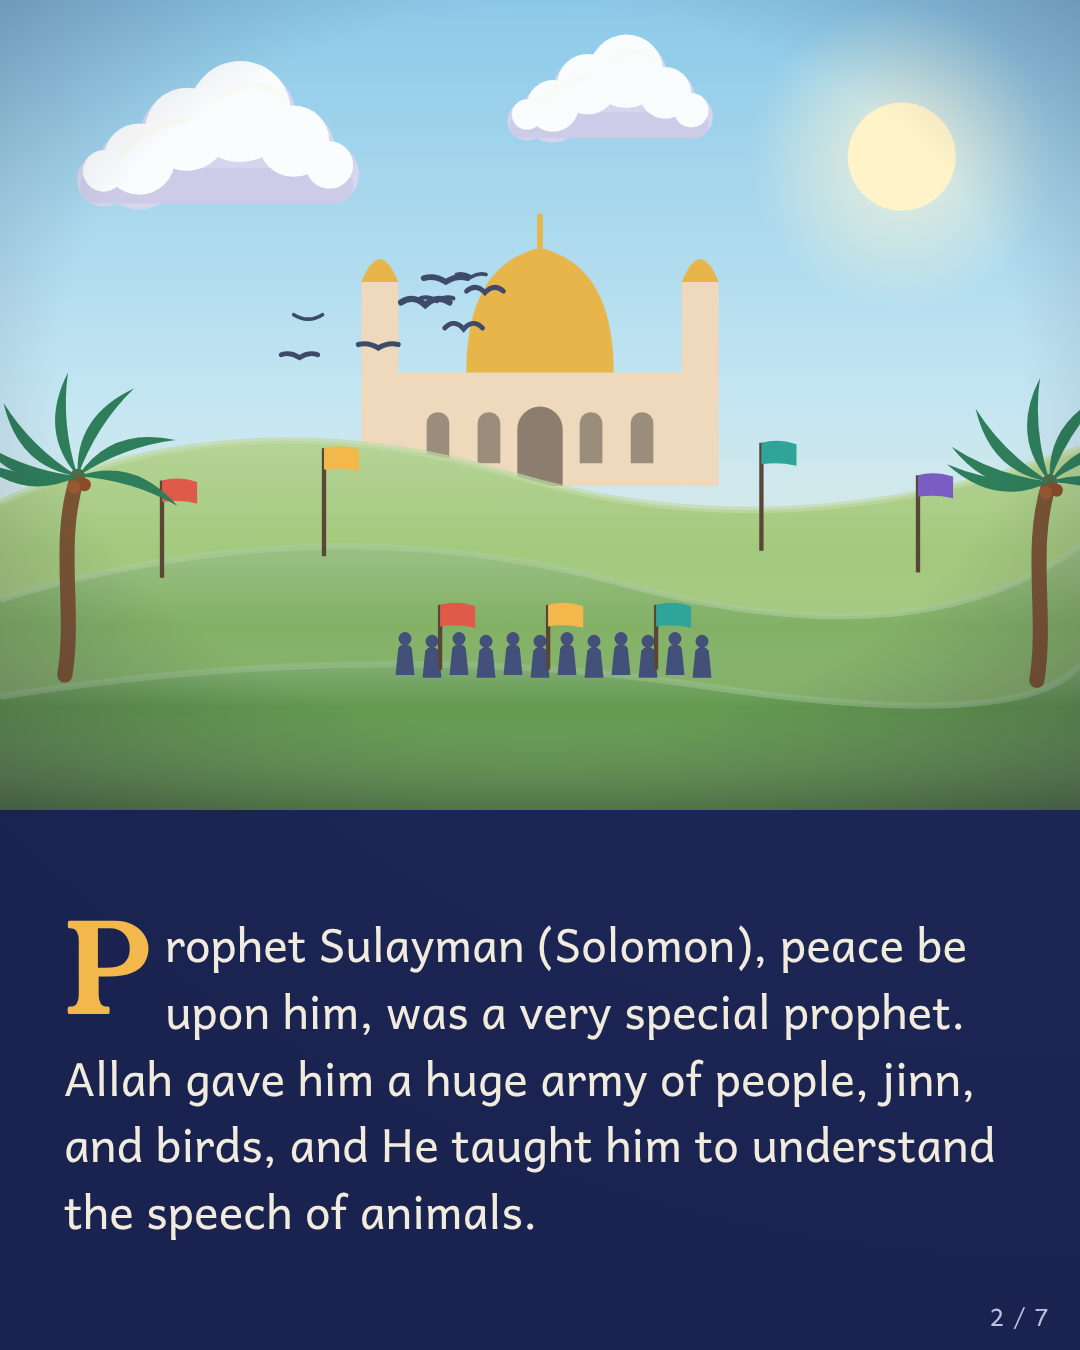
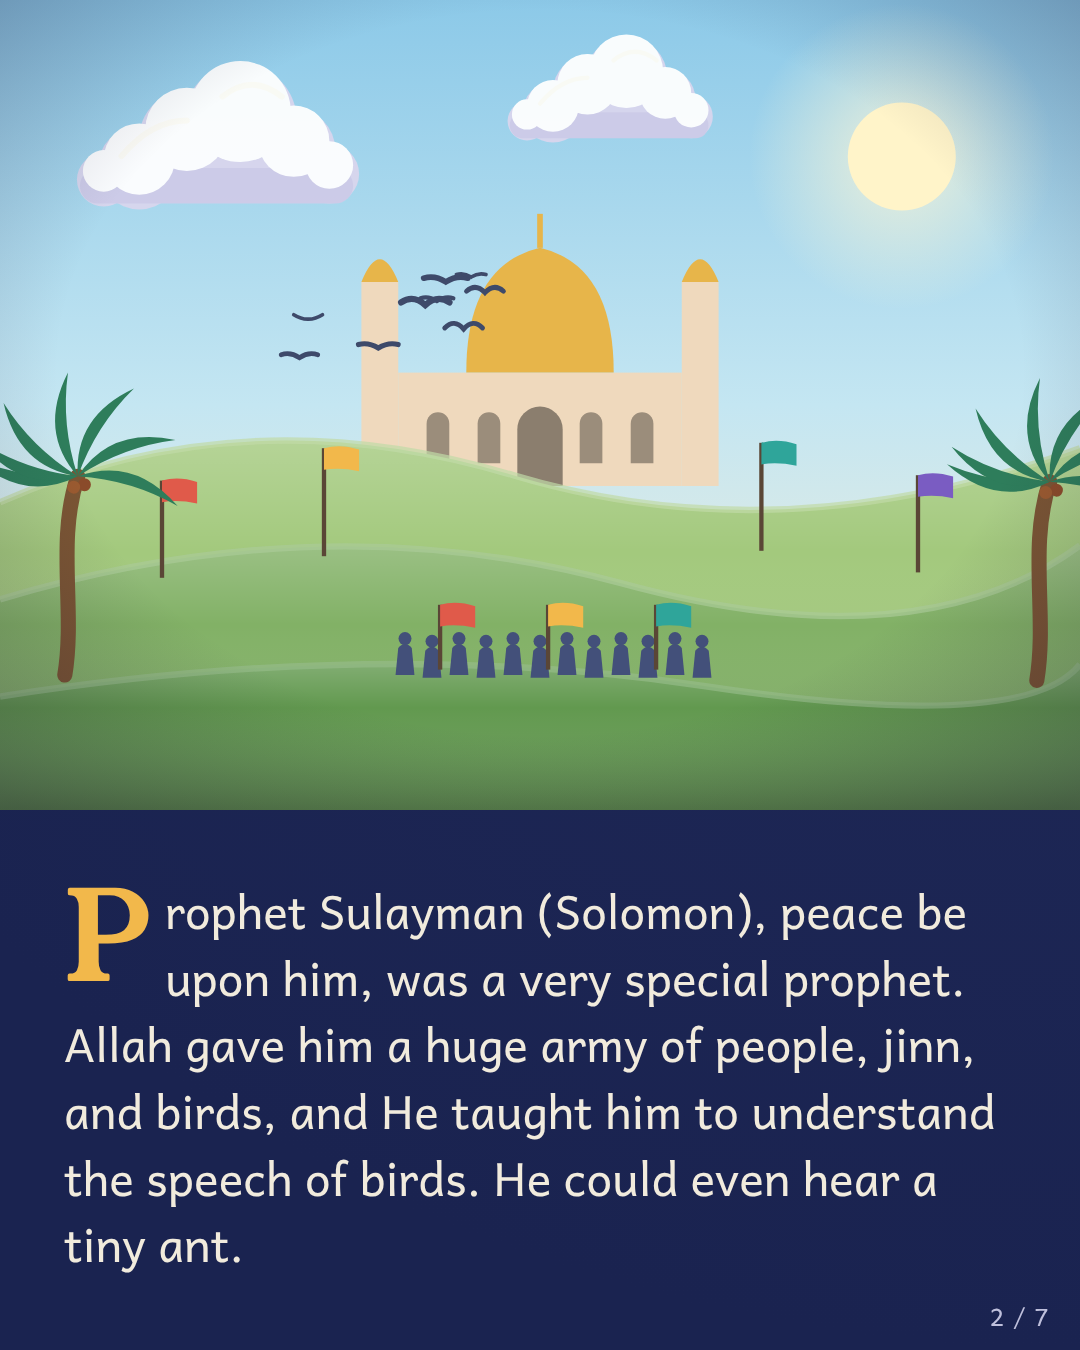
Fix two ant-story lines the Quran does not support
"the speech of animals" becomes "the speech of birds" (27:16), and the
army stopping is now told as something we imagine, since the Quran does
not say it. Rebuilt the app and re-rendered the ant carousel; dropped the
now-unneeded caveat from marketing/posts.md.

Claude-Session: https://claude.ai/code/session_013DmmMHkUXd1ut1VUp6Yhsy

Changed region(s): [[0.0611, 0.6533, 0.9167, 0.9333]]

diff --git a/docs/index.html b/docs/index.html
@@ -310,7 +310,7 @@ body.bedtime .leaf .art svg, body.bedtime .tonight svg, body.bedtime .book svg{f
 
 <script>
 /* ================= Stories (generated from stories/*.md by build.mjs) ================= */
-const STORIES=[{"id":"dog","title":"The man who helped a thirsty dog","date":"2026-10-16","theme":"Kindness to animals","tint":"#56c7b4","source":"Sahih al-Bukhari 2363 and Sahih Muslim 2244","sourceLong":"Hadith of the man who gave water to a thirsty dog, in Sahih al-Bukhari 2363 and Sahih Muslim 2244, narrated by Abu Huraira.","value":{"name":"Kindness","icon":"paw"},"cover":"dogDrinks","pages":[{"scene":"desertWalk","text":["A long time ago, a man was walking through the desert. The sun was hot, and he was very thirsty."]},{"scene":"wellDrink","text":["He found a well, climbed down carefully, and drank some cool water. Alhamdulillah, he felt better."]},{"scene":"thirstyDog","text":["When he came back up, he saw a dog nearby. The dog was panting and licking the wet mud. It looked so thirsty, just like he had been."]},{"scene":"shoeClimb","text":["The man thought, \"This dog is thirsty the way I was thirsty.\" So he climbed down the well again, filled his shoe with water, held it carefully in his mouth so he could climb, and gave the water to the dog."]},{"scene":"dogDrinks","text":["The dog drank and drank until it was happy.","Allah was so pleased with this kind act that He forgave the man's sins."]},{"scene":"kindNight","text":["The Prophet Muhammad ﷺ told us this story so we would remember that there is a reward for kindness to every living being."]}],"lesson":"Even a small act of kindness, like giving water to a thirsty animal, can mean a lot to Allah.","ask":"If you saw a thirsty bird or a hungry cat today, what is one kind thing you could do to help?","tip":"Plan one small kindness together for tomorrow, like putting out a bowl of water for birds, and remind your child of the man and the dog when you do it."},{"id":"ant","title":"Prophet Sulayman and the little ant","date":"2026-10-17","theme":"Gentleness and gratitude","tint":"#f2b84b","source":"Quran, Surah An-Naml 27:17-19","sourceLong":"Quran, Surah An-Naml (The Ant), verses 17 to 19.","value":{"name":"Gratitude","icon":"ant"},"cover":"antCall","pages":[{"scene":"kingdom","text":["Prophet Sulayman (Solomon), peace be upon him, was a very special prophet. Allah gave him a huge army of people, jinn, and birds, and He taught him to understand the speech of animals."]},{"scene":"march","text":["One day Sulayman was marching with his whole army. They came to a valley full of ants."]},{"scene":"antCall","text":["A little ant saw the big army coming and called out to the others: \"O ants! Go into your homes, so that Sulayman and his soldiers don't crush you without realising it!\""]},{"scene":"gratitude","text":["Sulayman heard the tiny ant, and he smiled. He wasn't angry. He was happy and thankful. He prayed: \"My Lord, help me to be grateful for the blessings You gave me and my parents, and help me do good deeds that please You.\""],"dua":{"ar":"رَبِّ أَوْزِعْنِي أَنْ أَشْكُرَ نِعْمَتَكَ الَّتِي أَنْعَمْتَ عَلَيَّ وَعَلَىٰ وَالِدَيَّ وَأَنْ أَعْمَلَ صَالِحًا تَرْضَاهُ","ref":"From Surah An-Naml 27:19"}},{"scene":"safeHome","text":["So the great king stopped his whole army to look after a few little ants. And the little ant looked after her friends too."]}],"lesson":"Strong people are gentle with small creatures, and when Allah blesses us, we say thank you to Him.","ask":"The ant warned her friends to keep them safe. How can you look out for your brothers, sisters, or friends?","tip":"Before lights out, take turns naming three blessings from today and say Alhamdulillah after each one, the way Sulayman thanked Allah."},{"id":"gold","title":"The honest men and the jar of gold","date":"2026-10-18","theme":"Honesty","tint":"#f08f80","source":"Sahih al-Bukhari 3472, Sahih Muslim 1721","sourceLong":"Sahih al-Bukhari 3472 and Sahih Muslim 1721, narrated by Abu Huraira.","value":{"name":"Honesty","icon":"jar"},"cover":"jarGlow","pages":[{"scene":"sale","text":["Our Prophet Muhammad ﷺ once told his companions a true story about two men who lived long, long ago, before his time.","One man owned a piece of land, and he sold it to another man."]},{"scene":"digging","text":["The new owner was happy with his land, and he began to dig in it. Suddenly, his shovel hit something hard. He dug a little more and found a jar. He opened it, and it was full of shining gold!"]},{"scene":"jarGlow","text":["Now, he could have kept it all for himself. Nobody had seen him find it. But he knew Allah sees everything. So he picked up the jar and went straight to the man who sold him the land."]},{"scene":"backForth","text":["\"Here, take your gold,\" he said. \"I only bought the land from you. I didn't buy any gold.\"","But the other man shook his head. \"No, no,\" he said. \"I sold you the land and everything in it. The gold belongs to you.\""]},{"scene":"wiseMan","text":["Each man wanted the other to have the gold! Neither of them wanted to take something that might not be his. So they went to a wise man and asked him to decide.","The wise man listened. Then he asked, \"Do you have any children?\"","The first man said, \"I have a son.\"\nThe second man said, \"I have a daughter.\""]},{"scene":"wedding","text":["The wise man smiled. \"Then let your son and your daughter marry each other. Spend some of the gold on them, and give the rest in charity to help others.\""]},{"scene":"charity","text":["And so the gold that both men were too honest to keep became a blessing for their children and for the poor."]}],"lesson":"Be honest even when nobody is watching, because Allah always sees us. When we don't take what isn't ours, Allah puts blessing (barakah) in what we have.","ask":"If you found some money on the floor at school or in the park, and nobody saw you, what would you do? Why?","tip":"Share a time you returned something that was not yours, even a small thing. Children remember the stories their parents tell about themselves."}];
+const STORIES=[{"id":"dog","title":"The man who helped a thirsty dog","date":"2026-10-16","theme":"Kindness to animals","tint":"#56c7b4","source":"Sahih al-Bukhari 2363 and Sahih Muslim 2244","sourceLong":"Hadith of the man who gave water to a thirsty dog, in Sahih al-Bukhari 2363 and Sahih Muslim 2244, narrated by Abu Huraira.","value":{"name":"Kindness","icon":"paw"},"cover":"dogDrinks","pages":[{"scene":"desertWalk","text":["A long time ago, a man was walking through the desert. The sun was hot, and he was very thirsty."]},{"scene":"wellDrink","text":["He found a well, climbed down carefully, and drank some cool water. Alhamdulillah, he felt better."]},{"scene":"thirstyDog","text":["When he came back up, he saw a dog nearby. The dog was panting and licking the wet mud. It looked so thirsty, just like he had been."]},{"scene":"shoeClimb","text":["The man thought, \"This dog is thirsty the way I was thirsty.\" So he climbed down the well again, filled his shoe with water, held it carefully in his mouth so he could climb, and gave the water to the dog."]},{"scene":"dogDrinks","text":["The dog drank and drank until it was happy.","Allah was so pleased with this kind act that He forgave the man's sins."]},{"scene":"kindNight","text":["The Prophet Muhammad ﷺ told us this story so we would remember that there is a reward for kindness to every living being."]}],"lesson":"Even a small act of kindness, like giving water to a thirsty animal, can mean a lot to Allah.","ask":"If you saw a thirsty bird or a hungry cat today, what is one kind thing you could do to help?","tip":"Plan one small kindness together for tomorrow, like putting out a bowl of water for birds, and remind your child of the man and the dog when you do it."},{"id":"ant","title":"Prophet Sulayman and the little ant","date":"2026-10-17","theme":"Gentleness and gratitude","tint":"#f2b84b","source":"Quran, Surah An-Naml 27:17-19","sourceLong":"Quran, Surah An-Naml (The Ant), verses 17 to 19.","value":{"name":"Gratitude","icon":"ant"},"cover":"antCall","pages":[{"scene":"kingdom","text":["Prophet Sulayman (Solomon), peace be upon him, was a very special prophet. Allah gave him a huge army of people, jinn, and birds, and He taught him to understand the speech of birds. He could even hear a tiny ant."]},{"scene":"march","text":["One day Sulayman was marching with his whole army. They came to a valley full of ants."]},{"scene":"antCall","text":["A little ant saw the big army coming and called out to the others: \"O ants! Go into your homes, so that Sulayman and his soldiers don't crush you without realising it!\""]},{"scene":"gratitude","text":["Sulayman heard the tiny ant, and he smiled. He wasn't angry. He was happy and thankful. He prayed: \"My Lord, help me to be grateful for the blessings You gave me and my parents, and help me do good deeds that please You.\""],"dua":{"ar":"رَبِّ أَوْزِعْنِي أَنْ أَشْكُرَ نِعْمَتَكَ الَّتِي أَنْعَمْتَ عَلَيَّ وَعَلَىٰ وَالِدَيَّ وَأَنْ أَعْمَلَ صَالِحًا تَرْضَاهُ","ref":"From Surah An-Naml 27:19"}},{"scene":"safeHome","text":["We can imagine the great king making sure his army stepped carefully around the little ants. And the little ant looked after her friends too."]}],"lesson":"Strong people are gentle with small creatures, and when Allah blesses us, we say thank you to Him.","ask":"The ant warned her friends to keep them safe. How can you look out for your brothers, sisters, or friends?","tip":"Before lights out, take turns naming three blessings from today and say Alhamdulillah after each one, the way Sulayman thanked Allah."},{"id":"gold","title":"The honest men and the jar of gold","date":"2026-10-18","theme":"Honesty","tint":"#f08f80","source":"Sahih al-Bukhari 3472, Sahih Muslim 1721","sourceLong":"Sahih al-Bukhari 3472 and Sahih Muslim 1721, narrated by Abu Huraira.","value":{"name":"Honesty","icon":"jar"},"cover":"jarGlow","pages":[{"scene":"sale","text":["Our Prophet Muhammad ﷺ once told his companions a true story about two men who lived long, long ago, before his time.","One man owned a piece of land, and he sold it to another man."]},{"scene":"digging","text":["The new owner was happy with his land, and he began to dig in it. Suddenly, his shovel hit something hard. He dug a little more and found a jar. He opened it, and it was full of shining gold!"]},{"scene":"jarGlow","text":["Now, he could have kept it all for himself. Nobody had seen him find it. But he knew Allah sees everything. So he picked up the jar and went straight to the man who sold him the land."]},{"scene":"backForth","text":["\"Here, take your gold,\" he said. \"I only bought the land from you. I didn't buy any gold.\"","But the other man shook his head. \"No, no,\" he said. \"I sold you the land and everything in it. The gold belongs to you.\""]},{"scene":"wiseMan","text":["Each man wanted the other to have the gold! Neither of them wanted to take something that might not be his. So they went to a wise man and asked him to decide.","The wise man listened. Then he asked, \"Do you have any children?\"","The first man said, \"I have a son.\"\nThe second man said, \"I have a daughter.\""]},{"scene":"wedding","text":["The wise man smiled. \"Then let your son and your daughter marry each other. Spend some of the gold on them, and give the rest in charity to help others.\""]},{"scene":"charity","text":["And so the gold that both men were too honest to keep became a blessing for their children and for the poor."]}],"lesson":"Be honest even when nobody is watching, because Allah always sees us. When we don't take what isn't ours, Allah puts blessing (barakah) in what we have.","ask":"If you found some money on the floor at school or in the park, and nobody saw you, what would you do? Why?","tip":"Share a time you returned something that was not yours, even a small thing. Children remember the stories their parents tell about themselves."}];
 /* ================= Glossary of Arabic words =================
    STORIES itself is generated by build.mjs from the Markdown files in stories/. */
 const GLOSS={

diff --git a/docs/sw.js b/docs/sw.js
@@ -1,6 +1,6 @@
 // Keeps Qissa Time working offline. build.mjs fills in the version and the file list,
 // so every new build gets a fresh cache and phones pick up new stories on their next visit.
-const CACHE = 'qissa-time-efae9932c9';
+const CACHE = 'qissa-time-7322276a38';
 const FILES = ["./","manifest.webmanifest","icons/apple-touch-icon.png","icons/icon-192.png","icons/icon-512.png","icons/icon.svg"];
 const FONTS = /^https:\/\/fonts\.(googleapis|gstatic)\.com\//;
 

diff --git a/stories/2026-10-17 Prophet Sulayman and the little ant.md b/stories/2026-10-17 Prophet Sulayman and the little ant.md
@@ -15,7 +15,7 @@ tip: Before lights out, take turns naming three blessings from today and say Alh
 # Prophet Sulayman and the little ant 🐜
 
 <!-- page: kingdom -->
-Prophet Sulayman (Solomon), peace be upon him, was a very special prophet. Allah gave him a huge army of people, jinn, and birds, and He taught him to understand the speech of animals.
+Prophet Sulayman (Solomon), peace be upon him, was a very special prophet. Allah gave him a huge army of people, jinn, and birds, and He taught him to understand the speech of birds. He could even hear a tiny ant.
 
 <!-- page: march -->
 One day Sulayman was marching with his whole army. They came to a valley full of ants. <!-- page: antCall --> A little ant saw the big army coming and called out to the others: "O ants! Go into your homes, so that Sulayman and his soldiers don't crush you without realising it!"
@@ -24,7 +24,7 @@ One day Sulayman was marching with his whole army. They came to a valley full of
 Sulayman heard the tiny ant, and he smiled. He wasn't angry. He was happy and thankful. He prayed: "My Lord, help me to be grateful for the blessings You gave me and my parents, and help me do good deeds that please You."
 
 <!-- page: safeHome -->
-So the great king stopped his whole army to look after a few little ants. And the little ant looked after her friends too.
+We can imagine the great king making sure his army stepped carefully around the little ants. And the little ant looked after her friends too.
 
 **Lesson:** Strong people are gentle with small creatures, and when Allah blesses us, we say thank you to Him.
 

diff --git a/stories/REVIEW.md b/stories/REVIEW.md
@@ -32,3 +32,5 @@ Checked against quran.com and sunnah.com.
 - "licking the dry earth" should be "licking the wet mud". The hadith word الثَّرَى means moist earth.
 - Last line: "kindness that Allah loves" goes beyond the hadith. A closer version is "so we would remember that there is a reward for kindness to every living being" (فِي كُلِّ كَبِدٍ رَطْبَةٍ أَجْرٌ).
 - Harmless additions that are not in the hadith: desert, hot sun, cool water, "Alhamdulillah, he felt better", "until it was happy".
+
+**Ant story (fixed 2026-10-19):** "the speech of animals" is now "the speech of birds. He could even hear a tiny ant." (27:16). "So the great king stopped his whole army" is now "We can imagine the great king making sure his army stepped carefully around the little ants." The Quran does not say the army stopped.

diff --git a/marketing/posts.md b/marketing/posts.md
@@ -7,7 +7,6 @@ Paste-ready drafts. Replace `[APP LINK]` with the real link once it is final (pu
 - Ant story: Quran, Surah An-Naml 27:17-19 (the dua is from 27:19).
 - Gold story: Sahih al-Bukhari 3472 and Sahih Muslim 1721 (narrated by Abu Huraira).
 - Words in quotation marks are copied word for word from the story text in the app. Nothing is attributed to the Prophet ﷺ or the Quran beyond what the sources say.
-- One thing to be careful with: in the ant story, the line "So the great king stopped his whole army" is the story's own retelling, not something the Quran states (REVIEW.md points this out). None of the captions below say the Quran says it. If someone asks, the honest answer is: "The Quran tells us Sulayman smiled at the ant's words and made dua. The part about the army stopping is how we retold it for children."
 
 ---
 
